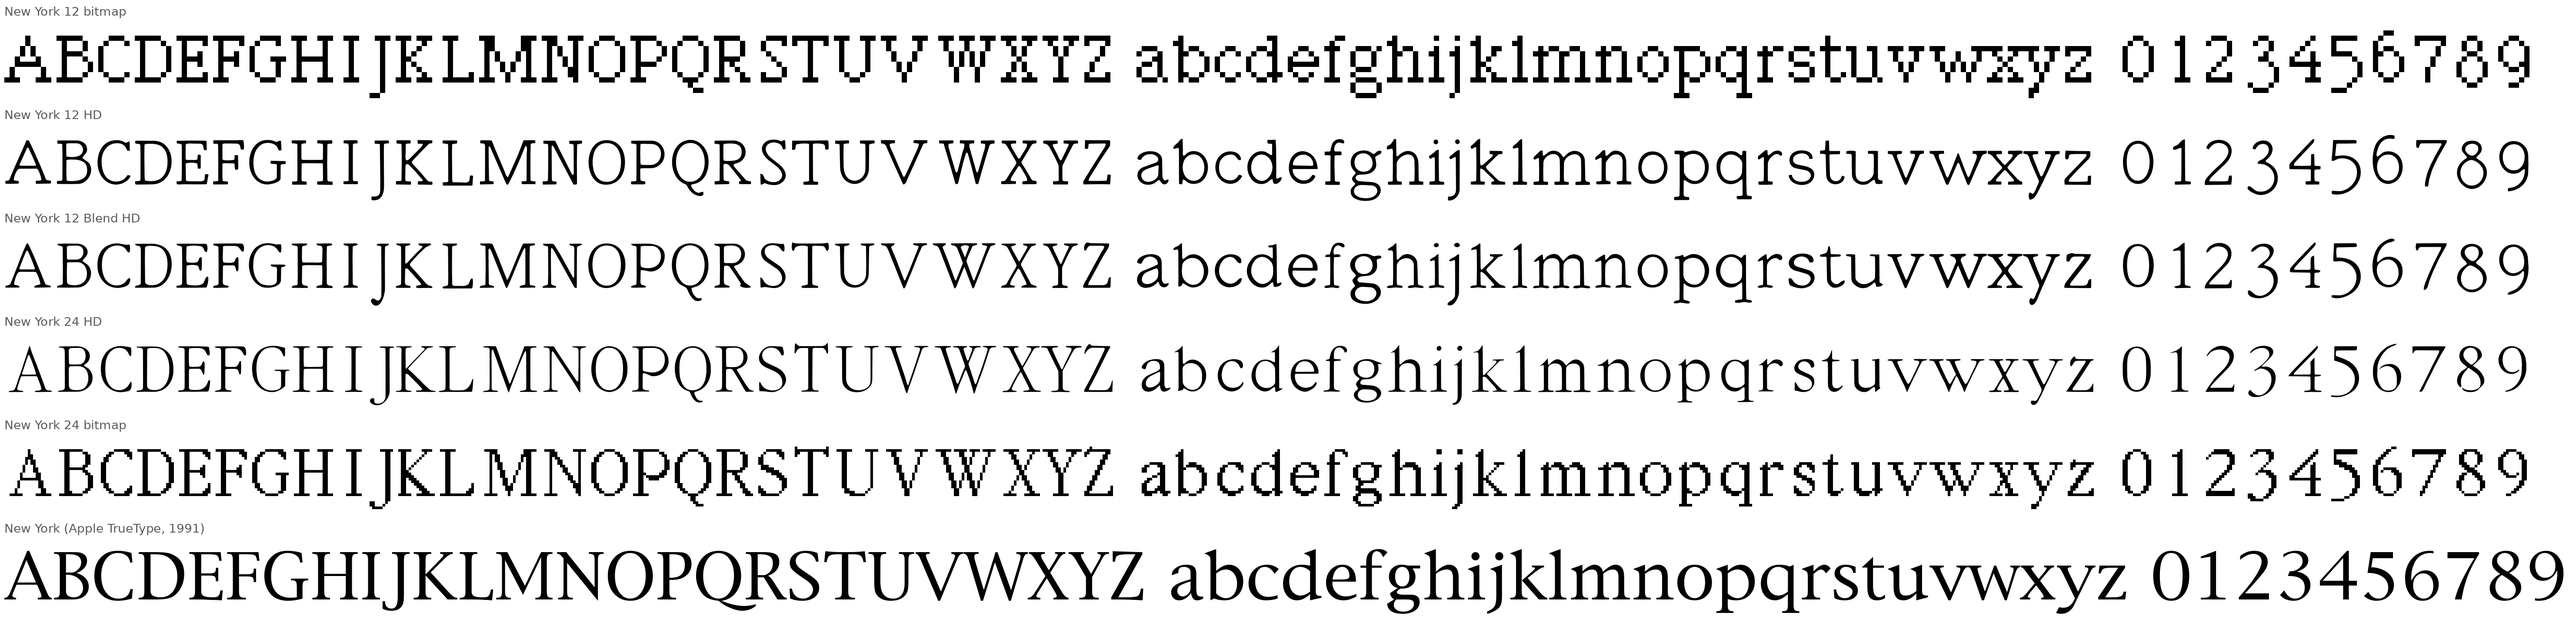
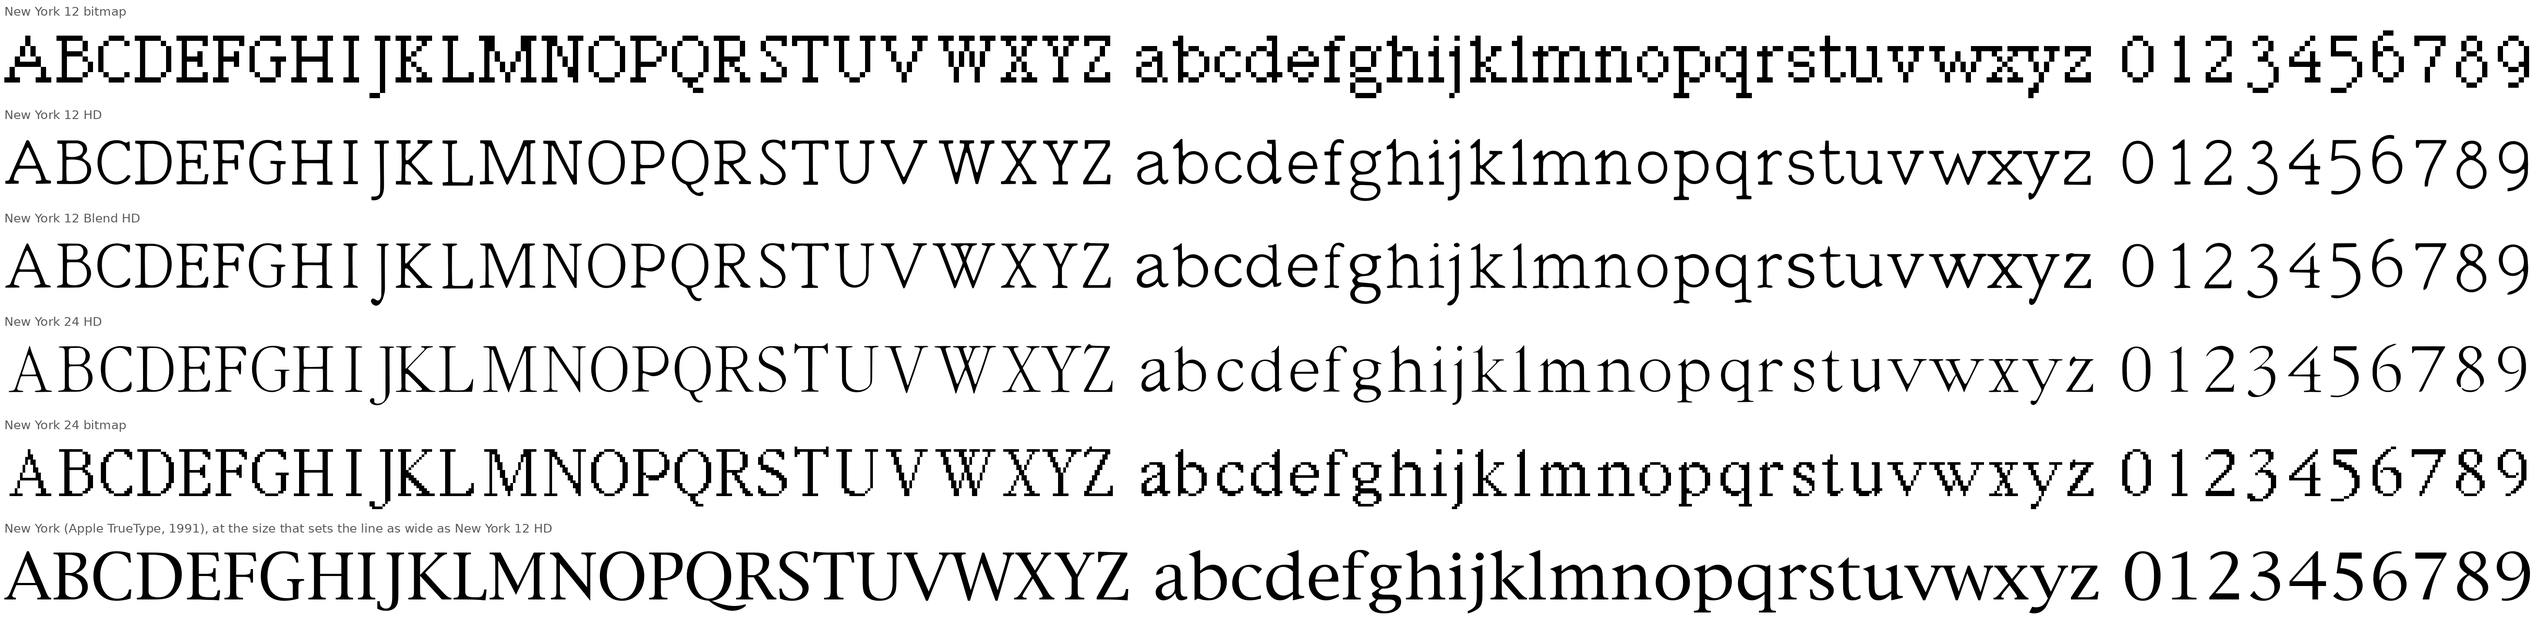
Alphabets specimen: Apple's New York at the size that sets the line as wide
The TrueType New York's line is set at the size (about 141 px for 144)
that makes it as wide as New York 12 HD's, so the rows line up.

Claude-Session: https://claude.ai/code/session_01CQ6vQTb8Z7L7dhdmG8pUbp

diff --git a/classic-mac/tools/specimen.py b/classic-mac/tools/specimen.py
@@ -80,15 +80,16 @@ def blend(size=144, official=None):
     L = ImageFont.truetype(LABEL, 28)
     rows = [('newyork12', 'New York 12 bitmap'), ('New York 12 HD', None), ('New York 12 Blend HD', None),
             ('New York 24 HD', None), ('newyork24', 'New York 24 bitmap')]
-    if official: rows.append((official, 'New York (Apple TrueType, 1991)'))
+    if official: rows.append((official, 'New York (Apple TrueType, 1991), at the size that sets the line as wide as New York 12 HD'))
     gap = int(size * 1.45) + 30
     im = Image.new('RGB', (60 * size, len(rows) * gap + 20), 'white'); d = ImageDraw.Draw(im)
     right = 0
     for i, (f, label) in enumerate(rows):
         top = 10 + i * gap; base = top + 36 + size
         d.text((10, top), label or f, font=L, fill=(90, 90, 90))
-        if label and f == official:
-            F = ImageFont.truetype(f, size)
+        if label and f == official:     # at the size that sets the line as wide as New York 12 HD does
+            F12 = ImageFont.truetype(os.path.join(ROOT, 'fonts', 'otf', 'NewYork12HD-Regular.otf'), size)
+            F = ImageFont.truetype(f, size * d.textlength(text, font=F12) / d.textlength(text, font=ImageFont.truetype(f, size)))
             d.text((10, base), text, font=F, fill=(0, 0, 0), anchor='ls'); x = 10 + d.textlength(text, font=F)
         elif label:                                         # a bitmap, each pixel a square size/ppem across
             strike, metrics = bitmap.strike(f); x = 10.0

diff --git a/classic-mac/README.md b/classic-mac/README.md
@@ -110,7 +110,8 @@ New York 12's own at the blend's weight. W and w are made of two of the blended 
 12's w). A glyph whose blend would come apart is blended less (`]` and `¶`). Every glyph holds
 together. [`specimen/newyork-blend.png`](specimen/newyork-blend.png) sets it with New York 12 HD and 24 HD;
 [`specimen/newyork-alphabets.png`](specimen/newyork-alphabets.png) sets the alphabets and figures in New York 12's
-bitmap, 12 HD, the blend, 24 HD, 24's bitmap and Apple's 1991 TrueType New York (rendered from a copy of that
+bitmap, 12 HD, the blend, 24 HD, 24's bitmap and Apple's 1991 TrueType New York (at the size that sets the line
+as wide as 12 HD does; rendered from a copy of that
 font, which isn't in this repository: `python3 tools/specimen.py path/to/New\ York.ttf`).
 
 The centerlines it registers by (`tools/centerline.py`, in `centerlines/`) are each glyph's stroke skeleton,
